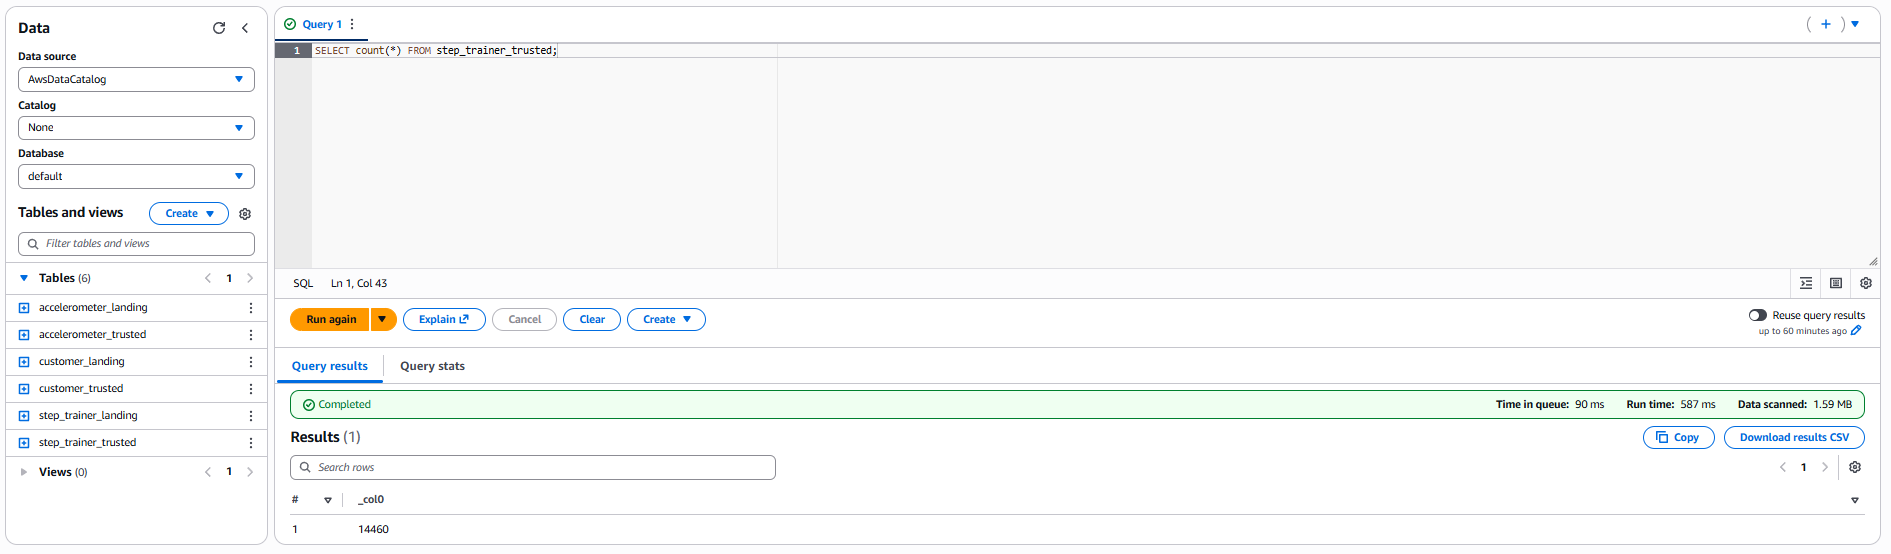
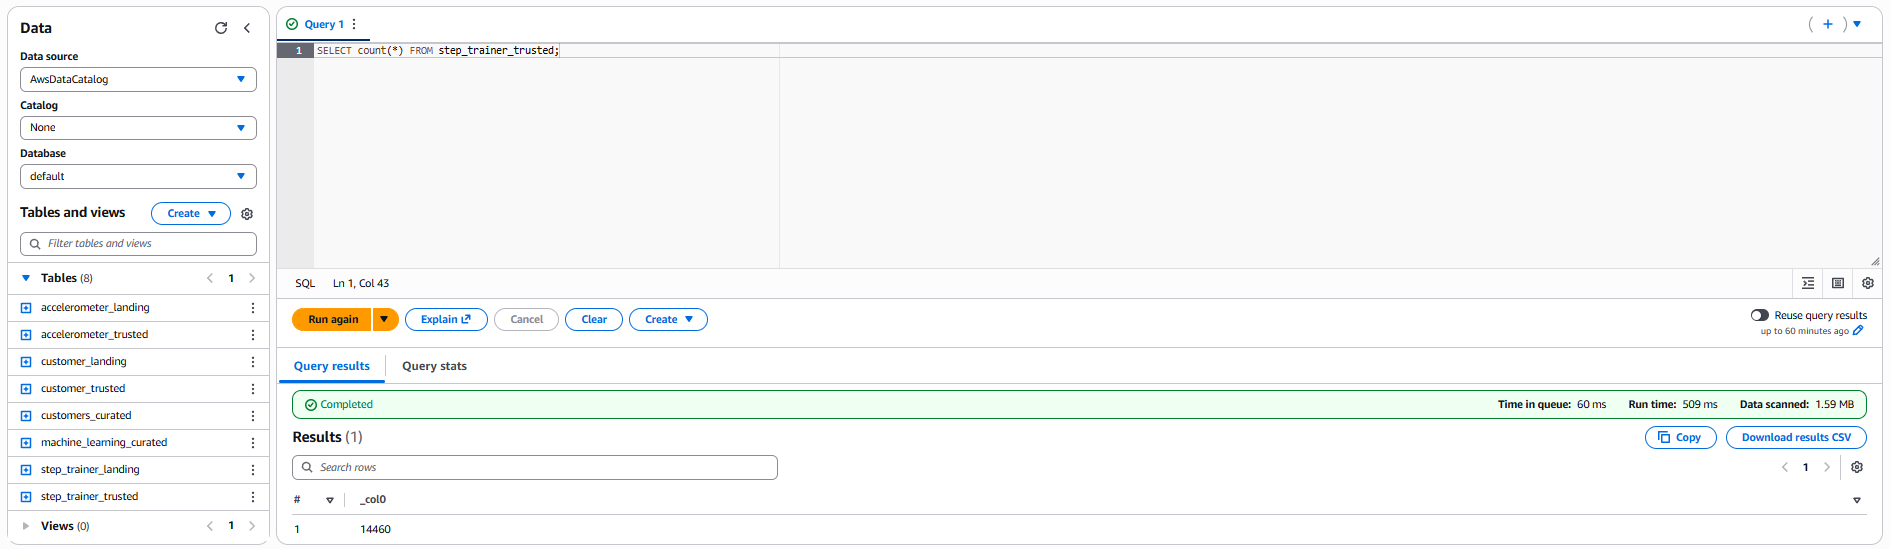
Updated step_trainer_trusted to read from customers_curated

diff --git a/scripts/step_trainer_trusted.py b/scripts/step_trainer_trusted.py
@@ -13,30 +13,30 @@ spark = glueContext.spark_session
 job = Job(glueContext)
 job.init(args['JOB_NAME'], args)
 
-# 1. Read step trainer landing and customer trusted from Catalog
+# 1. Read step trainer landing and customers curated from Glue Catalog
 step_trainer_landing_node = glueContext.create_dynamic_frame.from_catalog(
     database="default",
     table_name="step_trainer_landing",
     transformation_ctx="step_trainer_landing_node"
 )
 
-customer_trusted_node = glueContext.create_dynamic_frame.from_catalog(
+customer_curated_node = glueContext.create_dynamic_frame.from_catalog(
     database="default",
-    table_name="customer_trusted",
-    transformation_ctx="customer_trusted_node"
+    table_name="customers_curated",
+    transformation_ctx="customer_curated_node"
 )
 
 step_df = step_trainer_landing_node.toDF()
-cust_df = customer_trusted_node.toDF()
+cust_curated_df = customer_curated_node.toDF()
 
-# 2. Inner Join on serialnumber to retain readings only for consented customers
+# 2. Inner Join step_trainer_landing with customers_curated on serialnumber
 joined_df = step_df.join(
-    cust_df,
-    step_df["serialnumber"] == cust_df["serialnumber"],
+    cust_curated_df,
+    step_df["serialnumber"] == cust_curated_df["serialnumber"],
     "inner"
 )
 
-# 3. Select original step trainer fields
+# 3. Select only the original step trainer fields
 step_trainer_trusted_df = joined_df.select(
     step_df["sensorreadingtime"],
     step_df["serialnumber"],
